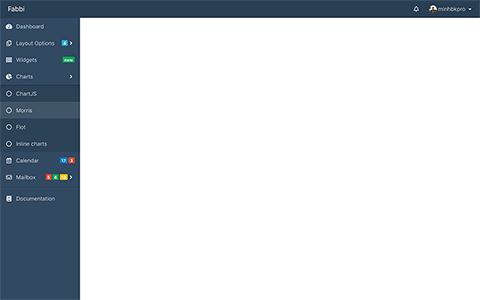
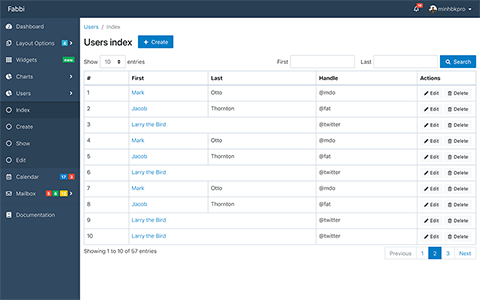
Add users index

diff --git a/docs/docs/4.2/examples/admin/index.html b/docs/docs/4.2/examples/admin/index.html
@@ -1,9 +1,10 @@
 ---
 layout: examples
 title: Admin Template
-extra_css: "admin.css"
+extra_css:
+  - "https://use.fontawesome.com/releases/v5.7.1/css/all.css"
+  - "admin.css"
 extra_js:
-  - "https://use.fontawesome.com/releases/v5.7.1/js/all.js"
   - "admin.js"
 ---
 
@@ -131,7 +132,7 @@ extra_js:
             </span>
             <i class="fas fa-fw fa-angle-right"></i>
           </a>
-          <ul id="nav-charts" class="nav collapse show" data-parent="#nav-accordion">
+          <ul id="nav-charts" class="nav collapse" data-parent="#nav-accordion">
             <li class="nav-item">
               <a class="nav-link text-reset" href="#">
                 <i class="far fa-fw fa-circle mr-3"></i>
@@ -139,7 +140,7 @@ extra_js:
               </a>
             </li>
             <li class="nav-item">
-              <a class="nav-link text-reset active" href="#">
+              <a class="nav-link text-reset" href="#">
                 <i class="far fa-fw fa-circle mr-3"></i>
                 <span>Morris</span>
               </a>
@@ -154,6 +155,42 @@ extra_js:
               <a class="nav-link text-reset" href="#">
                 <i class="far fa-fw fa-circle mr-3"></i>
                 <span>Inline charts</span>
+              </a>
+            </li>
+          </ul>
+        </li>
+        <li class="nav-item nav-dropdown">
+          <a class="nav-link text-reset justify-content-between"
+             data-toggle="collapse" data-target="#nav-users">
+            <span class="d-flex align-items-center">
+              <i class="fas fa-fw fa-chart-pie mr-3"></i>
+              <span>Users</span>
+            </span>
+            <i class="fas fa-fw fa-angle-right"></i>
+          </a>
+          <ul id="nav-users" class="nav collapse show" data-parent="#nav-accordion">
+            <li class="nav-item">
+              <a class="nav-link text-reset active" href="/docs/4.2/examples/admin">
+                <i class="far fa-fw fa-circle mr-3"></i>
+                <span>Index</span>
+              </a>
+            </li>
+            <li class="nav-item">
+              <a class="nav-link text-reset" href="/docs/4.2/examples/admin/create.html">
+                <i class="far fa-fw fa-circle mr-3"></i>
+                <span>Create</span>
+              </a>
+            </li>
+            <li class="nav-item">
+              <a class="nav-link text-reset" href="#">
+                <i class="far fa-fw fa-circle mr-3"></i>
+                <span>Show</span>
+              </a>
+            </li>
+            <li class="nav-item">
+              <a class="nav-link text-reset" href="#">
+                <i class="far fa-fw fa-circle mr-3"></i>
+                <span>Edit</span>
               </a>
             </li>
           </ul>
@@ -222,7 +259,230 @@ extra_js:
     </nav>
 
     <main class="col-sm-9 col-md-10" role="main">
-
+      <nav aria-label="breadcrumb">
+        <ol class="breadcrumb bg-white px-0 mb-0">
+          <li class="breadcrumb-item"><a href="#">Users</a></li>
+          <li class="breadcrumb-item active" aria-current="page">Index</li>
+        </ol>
+      </nav>
+      <div class="d-flex align-items-center mb-4">
+        <h3 class="mb-0">Users index</h3>
+        <a class="btn btn-primary ml-4" href="/docs/4.2/examples/admin/create.html">
+          <i class="fas fa-sm fa-fw fa-plus mr-1"></i>
+          <span>Create</span>
+        </a>
+      </div>
+      <form>
+        <div class="row mb-2">
+          <div class="col-md-4 form-inline">
+            <label class="my-1 mr-2" for="per-page">Show</label>
+            <select id="per-page" class="custom-select my-1 mr-sm-2">
+              <option value="10">10</option>
+              <option value="25">25</option>
+              <option value="50">50</option>
+              <option value="100">100</option>
+            </select>
+            <label class="my-1 mr-2" for="per-page">entries</label>
+          </div>
+          <div class="col-md-8 form-inline justify-content-end">
+            <label class="my-1 mr-2" for="filter-first">First</label>
+            <input type="text" id="filter-first" class="form-control mr-sm-4 w-25">
+            <label class="my-1 mr-2" for="filter-last">Last</label>
+            <input type="text" id="filter-last" class="form-control mr-sm-2 w-25">
+            <button type="submit" class="btn btn-primary my-1">
+              <i class="fas fa-sm fa-fw fa-search mr-1"></i>
+              <span>Search</span>
+            </button>
+          </div>
+        </div>
+      </form>
+      <table class="table table-bordered mb-2">
+        <thead>
+        <tr>
+          <th scope="col">#</th>
+          <th scope="col">First</th>
+          <th scope="col">Last</th>
+          <th scope="col">Handle</th>
+          <th scope="col" class="w-15">Actions</th>
+        </tr>
+        </thead>
+        <tbody>
+        <tr>
+          <td scope="row">1</td>
+          <td><a href="#">Mark</a></td>
+          <td>Otto</td>
+          <td>@mdo</td>
+          <td>
+            <a class="btn btn-sm btn-light" href="#">
+              <i class="fas fa-sm fa-fw fa-pencil-alt"></i>
+              <span>Edit</span>
+            </a>
+            <a class="btn btn-sm btn-light" href="#">
+              <i class="far fa-sm fa-fw fa-trash-alt"></i>
+              <span>Delete</span>
+            </a>
+          </td>
+        </tr>
+        <tr>
+          <td scope="row">2</td>
+          <td><a href="#">Jacob</a></td>
+          <td>Thornton</td>
+          <td>@fat</td>
+          <td>
+            <a class="btn btn-sm btn-light" href="#">
+              <i class="fas fa-sm fa-fw fa-pencil-alt"></i>
+              <span>Edit</span>
+            </a>
+            <a class="btn btn-sm btn-light" href="#">
+              <i class="far fa-sm fa-fw fa-trash-alt"></i>
+              <span>Delete</span>
+            </a>
+          </td>
+        </tr>
+        <tr>
+          <td scope="row">3</td>
+          <td colspan="2"><a href="#">Larry the Bird</a></td>
+          <td>@twitter</td>
+          <td>
+            <a class="btn btn-sm btn-light" href="#">
+              <i class="fas fa-sm fa-fw fa-pencil-alt"></i>
+              <span>Edit</span>
+            </a>
+            <a class="btn btn-sm btn-light" href="#">
+              <i class="far fa-sm fa-fw fa-trash-alt"></i>
+              <span>Delete</span>
+            </a>
+          </td>
+        </tr>
+        <tr>
+          <td scope="row">4</td>
+          <td><a href="#">Mark</a></td>
+          <td>Otto</td>
+          <td>@mdo</td>
+          <td>
+            <a class="btn btn-sm btn-light" href="#">
+              <i class="fas fa-sm fa-fw fa-pencil-alt"></i>
+              <span>Edit</span>
+            </a>
+            <a class="btn btn-sm btn-light" href="#">
+              <i class="far fa-sm fa-fw fa-trash-alt"></i>
+              <span>Delete</span>
+            </a>
+          </td>
+        </tr>
+        <tr>
+          <td scope="row">5</td>
+          <td><a href="#">Jacob</a></td>
+          <td>Thornton</td>
+          <td>@fat</td>
+          <td>
+            <a class="btn btn-sm btn-light" href="#">
+              <i class="fas fa-sm fa-fw fa-pencil-alt"></i>
+              <span>Edit</span>
+            </a>
+            <a class="btn btn-sm btn-light" href="#">
+              <i class="far fa-sm fa-fw fa-trash-alt"></i>
+              <span>Delete</span>
+            </a>
+          </td>
+        </tr>
+        <tr>
+          <td scope="row">6</td>
+          <td colspan="2"><a href="#">Larry the Bird</a></td>
+          <td>@twitter</td>
+          <td>
+            <a class="btn btn-sm btn-light" href="#">
+              <i class="fas fa-sm fa-fw fa-pencil-alt"></i>
+              <span>Edit</span>
+            </a>
+            <a class="btn btn-sm btn-light" href="#">
+              <i class="far fa-sm fa-fw fa-trash-alt"></i>
+              <span>Delete</span>
+            </a>
+          </td>
+        </tr>
+        <tr>
+          <td scope="row">7</td>
+          <td><a href="#">Mark</a></td>
+          <td>Otto</td>
+          <td>@mdo</td>
+          <td>
+            <a class="btn btn-sm btn-light" href="#">
+              <i class="fas fa-sm fa-fw fa-pencil-alt"></i>
+              <span>Edit</span>
+            </a>
+            <a class="btn btn-sm btn-light" href="#">
+              <i class="far fa-sm fa-fw fa-trash-alt"></i>
+              <span>Delete</span>
+            </a>
+          </td>
+        </tr>
+        <tr>
+          <td scope="row">8</td>
+          <td><a href="#">Jacob</a></td>
+          <td>Thornton</td>
+          <td>@fat</td>
+          <td>
+            <a class="btn btn-sm btn-light" href="#">
+              <i class="fas fa-sm fa-fw fa-pencil-alt"></i>
+              <span>Edit</span>
+            </a>
+            <a class="btn btn-sm btn-light" href="#">
+              <i class="far fa-sm fa-fw fa-trash-alt"></i>
+              <span>Delete</span>
+            </a>
+          </td>
+        </tr>
+        <tr>
+          <td scope="row">9</td>
+          <td colspan="2"><a href="#">Larry the Bird</a></td>
+          <td>@twitter</td>
+          <td>
+            <a class="btn btn-sm btn-light" href="#">
+              <i class="fas fa-sm fa-fw fa-pencil-alt"></i>
+              <span>Edit</span>
+            </a>
+            <a class="btn btn-sm btn-light" href="#">
+              <i class="far fa-sm fa-fw fa-trash-alt"></i>
+              <span>Delete</span>
+            </a>
+          </td>
+        </tr>
+        <tr>
+          <td scope="row">10</td>
+          <td colspan="2"><a href="#">Larry the Bird</a></td>
+          <td>@twitter</td>
+          <td>
+            <a class="btn btn-sm btn-light" href="#">
+              <i class="fas fa-sm fa-fw fa-pencil-alt"></i>
+              <span>Edit</span>
+            </a>
+            <a class="btn btn-sm btn-light" href="#">
+              <i class="far fa-sm fa-fw fa-trash-alt"></i>
+              <span>Delete</span>
+            </a>
+          </td>
+        </tr>
+        </tbody>
+      </table>
+      <div class="row mb-5">
+        <div class="col-md-6">Showing 1 to 10 of 57 entries</div>
+        <div class="col-md-6">
+          <ul class="pagination justify-content-end mb-0">
+            <li class="page-item disabled">
+              <a class="page-link" href="#" tabindex="-1" aria-disabled="true">Previous</a>
+            </li>
+            <li class="page-item"><a class="page-link" href="#">1</a></li>
+            <li class="page-item active" aria-current="page">
+              <a class="page-link" href="#">2 <span class="sr-only">(current)</span></a>
+            </li>
+            <li class="page-item"><a class="page-link" href="#">3</a></li>
+            <li class="page-item">
+              <a class="page-link" href="#">Next</a>
+            </li>
+          </ul>
+        </div>
+      </div>
     </main>
   </div>
 </div>

diff --git a/sass/bootstrap-custom.scss b/sass/bootstrap-custom.scss
@@ -19,6 +19,21 @@ $danger: $color-red !default;
 
 $yiq-contrasted-threshold:  200 !default;
 
+// Spacing
+$sizes: (
+  5: 5%,
+  10: 10%,
+  15: 15%,
+  20: 20%,
+  30: 30%,
+  40: 40%,
+  50: 50%,
+  60: 60%,
+  70: 70%,
+  80: 80%,
+  90: 90%,
+);
+
 // fonts
 $font-size-base: 0.875rem !default;
 $font-weight-base: lighter !default;
@@ -36,6 +51,8 @@ $border-radius-sm: .125rem !default;
 
 // Buttons + Forms
 $input-btn-padding-y: .3125rem !default;
+$input-btn-padding-y-sm: .1875rem !default;
+$input-btn-padding-y-lg: .4375rem !default;
 $input-btn-focus-box-shadow: inset 0 1px 1px rgba($color-black, 0.075), 0 -1px 8px rgba($color-blue, 0.5) !default;
 $custom-select-focus-box-shadow: $input-btn-focus-box-shadow !default;
 
@@ -57,9 +74,17 @@ $modal-header-padding-y: .5625rem !default;
 $modal-header-padding-x: .9375rem !default;
 
 // Pagination
-$pagination-padding-x: .875rem !default;
-$pagination-padding-x-sm: .625rem !default;
-$pagination-padding-x-lg: 1.625rem !default;
+$pagination-padding-y: .4rem !default;
+$pagination-padding-x: .75rem !default;
+$pagination-padding-y-sm: .2rem !default;
+$pagination-padding-x-sm: .5rem !default;
+$pagination-padding-y-lg: .6rem !default;
+$pagination-padding-x-lg: 1.5rem !default;
+$pagination-focus-box-shadow: none !default;
 
 // Dropdowns
 $dropdown-link-hover-bg: lighten($color-blue-gray, 60%) !default;
+
+// Tables
+$table-border-color: lighten($color-blue-gray, 50%) !default;
+$table-cell-padding: .4375rem !default;
